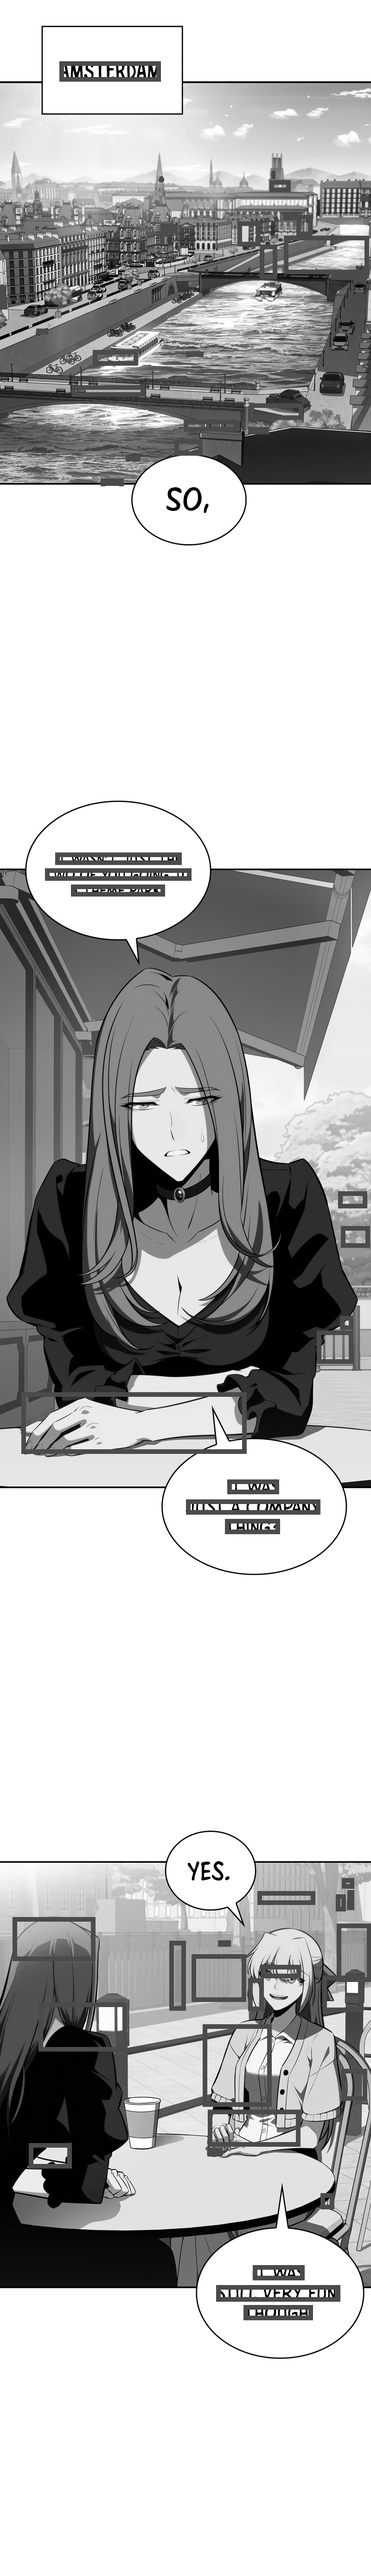
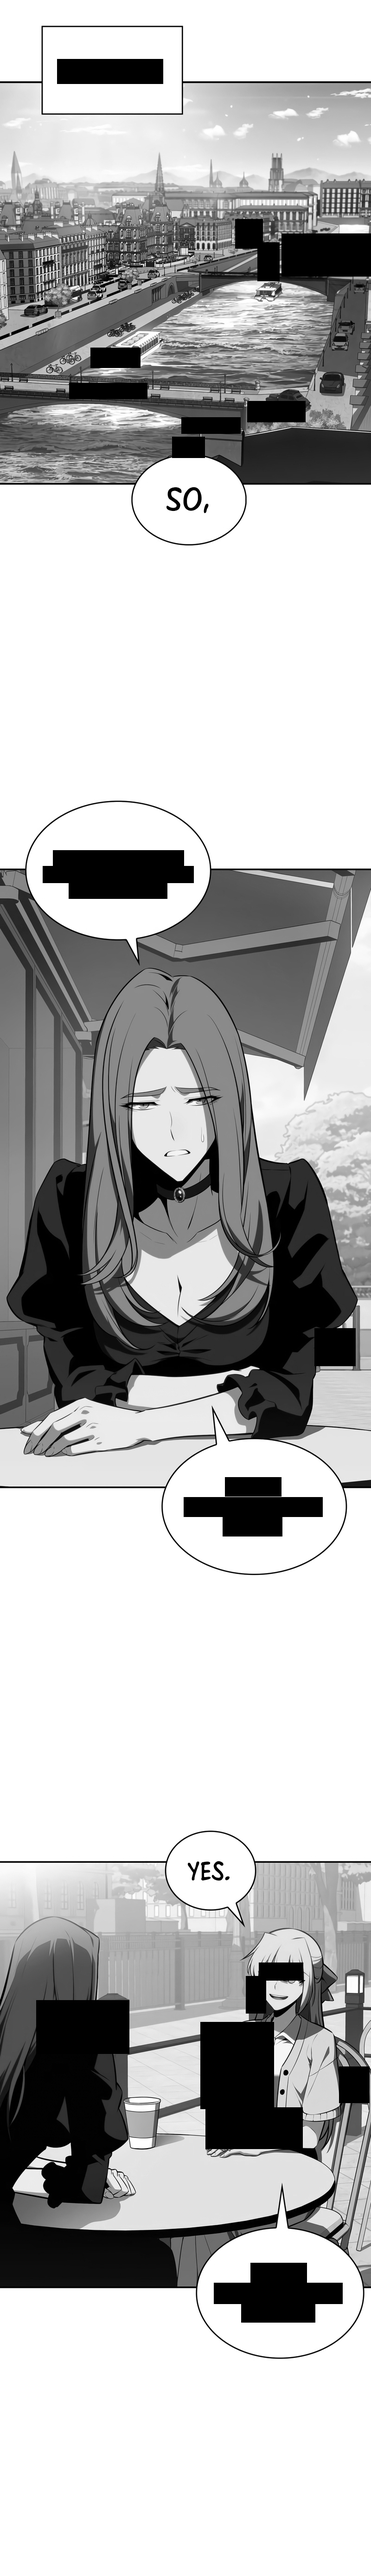
text detection 90 % working

diff --git a/main.py b/main.py
@@ -1,26 +1,39 @@
 from PIL import Image, ImageDraw, ImageFilter, ImageOps
 import pytesseract
+import cv2
+import numpy as np
+
+def has_concentrated_edges(box, edges):
+    x, y, w, h = box
+    roi = edges[y:y+h, x:x+w]
+    
+    total_pixels = roi.size
+    edge_pixels = np.sum(roi)/255.0
+    
+    concentration = edge_pixels / total_pixels
+
+    return concentration > 0.10
 
 def draw_boxes_on_image(img, output_path):
     draw = ImageDraw.Draw(img)
-    
-    # Adjust Tesseract's configuration
     custom_config = r'--oem 3 --psm 11'
-    
-    # Use pytesseract's image_to_data to get word-level bounding boxes
     data = pytesseract.image_to_data(img, output_type=pytesseract.Output.DICT, config=custom_config)
+    
+    np_img = np.array(img)
+    
+    # Use Canny Edge Detection on the numpy array
+    edges = cv2.Canny(np_img, 100, 200)
 
     for i in range(len(data['level'])):
         if data['level'][i] == 4:  # Word level
             x, y, w, h = data['left'][i], data['top'][i], data['width'][i], data['height'][i]
-            draw.rectangle([x, y, x + w, y + h], outline="green", width = 10)
+            if has_concentrated_edges((x, y, w, h), edges) and (w * h) > 2000:
+                draw.rectangle([x-5, y-5, x + w + 5, y + h + 5], fill="black", width=1000)
 
     img.save(output_path)
 
-
 def process_and_detect(img_path, output_prefix):
     original_img = Image.open(img_path)
-    draw_boxes_on_image(original_img.copy(), f'{output_prefix}_original.png')
 
     # Convert to grayscale
     gray_img = original_img.convert('L')
@@ -30,23 +43,6 @@ def process_and_detect(img_path, output_prefix):
     threshold = 254
     binarized_img = gray_img.point(lambda p: p < threshold and 255)
     draw_boxes_on_image(binarized_img, f'{output_prefix}_binarized.png')
-
-    edge_enhanced_img =  binarized_img.filter(ImageFilter.FIND_EDGES)
-    draw_boxes_on_image(binarized_img, f'{output_prefix}_edges.png')
-
-    # # Resize (enlarge)
-    # resized_img = original_img.resize((original_img.width*2, original_img.height*2), Image.BICUBIC)
-    # draw_boxes_on_image(resized_img, f'{output_prefix}_resized.png')
-
-    # # Denoise
-    # denoised_img = gray_img.filter(ImageFilter.MedianFilter(5))
-    # draw_boxes_on_image(denoised_img, f'{output_prefix}_denoised.png')
-
-    # # Enhanced Contrast
-    # enhanced_contrast_img = ImageOps.autocontrast(original_img)
-    # draw_boxes_on_image(enhanced_contrast_img, f'{output_prefix}_enhanced_contrast.png')
-
-    # print("Processing and detection complete. Please check the generated images.")
 
 img_path = 'img.jpg'
 process_and_detect(img_path, 'processed')
